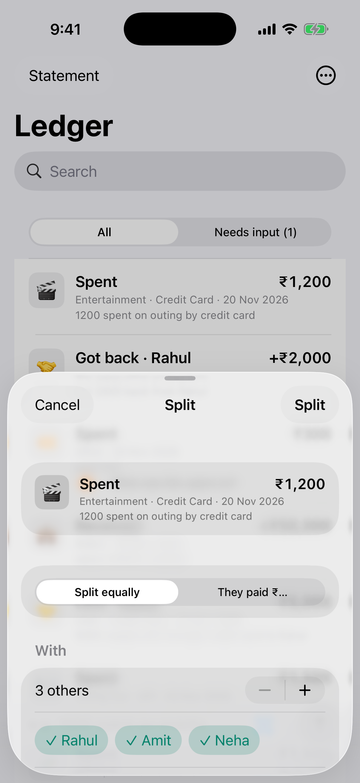
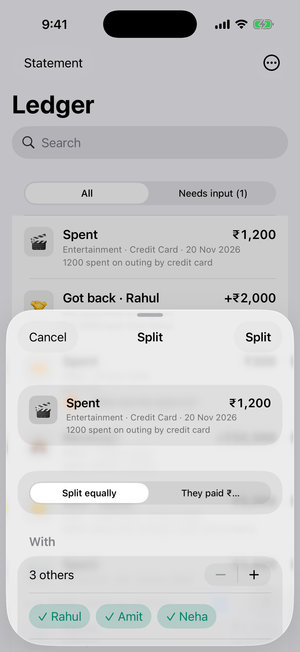
README: hero screenshot, features with their own screenshots, license note

diff --git a/README.md b/README.md
@@ -3,65 +3,69 @@
 <h1 align="center">Simplest Ledger</h1>
 
 <p align="center"><b>A private expense tracker for iPhone. Type it like a message.</b><br>
-No account. No internet. No ads. Everything stays on your phone.</p>
+No account · No internet · No ads · Everything stays on your phone</p>
 
-<p align="center">
-<img src="docs/screenshots/list.png" width="200" alt="Expense list">
-<img src="docs/screenshots/split.png" width="200" alt="Split a bill">
-<img src="docs/screenshots/trip.png" width="200" alt="Trip mode">
-<img src="docs/screenshots/statement.png" width="200" alt="Monthly statement">
-</p>
+<p align="center"><img src="docs/screenshots/list.png" width="300" alt="Simplest Ledger expense list"></p>
 
-## Just type
+<p align="center"><a href="../../releases/latest"><b>⬇ Download the app (free)</b></a></p>
 
-```
-1500 snacks via UPI
-lent 2000 to Rahul
-split the dinner with 3 people
-going on goa trip
-```
+---
 
-Amount, category, payment method and person are filled in for you. Anything unclear goes to **Needs input**, where you answer with a tap.
+<table>
+<tr>
+<td width="300"><img src="docs/screenshots/typing.png" width="280" alt="Typing an expense"></td>
+<td><h3>✍ Just type</h3>
+<code>dinner 850 with friends via UPI</code><br>
+Amount, category and payment method are filled in for you. English, Hindi or Hinglish.</td>
+</tr>
+<tr>
+<td><img src="docs/screenshots/sms-entry.png" width="280" alt="Expense added from a bank SMS"></td>
+<td><h3>📩 Bank SMS, added for you</h3>
+A UPI or card debit arrives and it's in your ledger, tagged <b>SMS</b>. OTPs, offers and failed payments are skipped. One-time setup inside the app.</td>
+</tr>
+<tr>
+<td><img src="docs/screenshots/split.png" width="280" alt="Split confirmation"><br><img src="docs/screenshots/after-split.png" width="280" alt="After the split"></td>
+<td><h3>👥 Edit old entries by typing</h3>
+<code>split the outing with Rahul, Amit and Neha</code><br>
+Finds the ₹1,200 outing, asks once, then it becomes your ₹300 share and each friend owes you ₹300.</td>
+</tr>
+<tr>
+<td><img src="docs/screenshots/edit.png" width="280" alt="Fix an entry by tapping"></td>
+<td><h3>❓ Unclear? Just tap</h3>
+Anything the app isn't sure about goes to <b>Needs input</b>. Answer with one tap on an icon.</td>
+</tr>
+<tr>
+<td><img src="docs/screenshots/trip.png" width="280" alt="Trip mode"></td>
+<td><h3>🧳 Trips</h3>
+<code>going on goa trip</code>: everything after is grouped, with a running total.</td>
+</tr>
+<tr>
+<td><img src="docs/screenshots/statement.png" width="280" alt="Monthly statement"></td>
+<td><h3>📊 Monthly statement</h3>
+Plain text: by category, by payment method, who owes whom. Copy or share.</td>
+</tr>
+<tr>
+<td><img src="docs/screenshots/dark.png" width="280" alt="Dark mode"></td>
+<td><h3>🌗 Also</h3>
+🧾 Scan receipts and UPI screenshots · 🤝 Lend and borrow · 🔍 Search · ⬇ CSV backup to iCloud or Google Drive · Dark mode</td>
+</tr>
+</table>
 
-## Features
+## 🔒 Private by design
 
-- 🧾 **Scan receipts** and UPI screenshots
-- 📩 **Bank SMS**: debits and credits added automatically (one-time Shortcuts setup, in the app)
-- 👥 **Split bills**: "he paid 700", "split with 3 people"; tracks who owes you
-- 🤝 **Lend and borrow**, with running balances
-- 🧳 **Trips**: group a trip's spending, see the total
-- 📊 **Monthly statement** in plain text: by category, by payment method, who owes whom
-- 🗂 20+ categories with icons; Dining Out, Food Delivery, Groceries, Utilities, Online Shopping…
-- 🌗 Dark mode, Liquid Glass design, Hindi and Hinglish input with English output
-- ⬇ CSV export/import, auto-backup to an iCloud Drive or Google Drive folder you pick
+- Everything is stored **on your iPhone**. No servers, no cloud database.
+- **No account, no sign-up, no tracking, no ads.** The app never connects to the internet.
+- Smart parsing runs **on the device** (Apple Intelligence on iPhone 15 Pro+, or a built-in offline parser).
+- Receipts are read on the phone and never saved. Backups go only to a folder you pick.
 
-## Private and secure by design
-
-- **On-device only.** Your entries live in the app on your iPhone. No server, no cloud database.
-- **No account, no sign-up, no tracking.** No analytics, no ads, no internet access in the app.
-- **Smart parsing runs locally** with Apple Intelligence (iPhone 15 Pro or newer); otherwise a built-in offline parser.
-- **Receipts are read on the phone** and not stored. Backups go only to a folder you choose.
-- **Public code.** Read every line of it right here.
-
-## Install (free, ~5 min)
+## 📲 Install (free)
 
 1. Download **SimplestLedger.ipa** from [Releases](../../releases/latest).
-2. Install it with [Sideloadly](https://sideloadly.io) (Windows/Mac) and a free Apple ID.
-3. On the iPhone: Settings → General → VPN & Device Management → **Trust**. Turn on **Developer Mode** if asked.
+2. Install with [Sideloadly](https://sideloadly.io) and a free Apple ID.
+3. iPhone: Settings → General → VPN & Device Management → **Trust**.
 
-Free Apple IDs re-sign every 7 days: repeat step 2 and your data stays.
+Re-install every 7 days (free Apple ID limit). Your data stays. Requires iOS 26.
 
-<details>
-<summary>More screenshots</summary>
-<p>
-<img src="docs/screenshots/edit.png" width="200" alt="Edit by tapping">
-<img src="docs/screenshots/bank-sms.png" width="200" alt="Bank SMS setup">
-<img src="docs/screenshots/dark.png" width="200" alt="Dark mode">
-</p>
-</details>
+---
 
-<details>
-<summary>Build from source</summary>
-
-SwiftUI, iOS 26, no third-party dependencies. Every push builds an unsigned IPA on GitHub Actions (`.github/workflows/build.yml`) using [XcodeGen](https://github.com/yonaskolb/XcodeGen). Parsing logic lives in `LedgerCore` with tests: `swift test --package-path LedgerCore`.
-</details>
+<sub>Free for personal, non-commercial use under the [PolyForm Noncommercial License](LICENSE.md). Ideas and pull requests welcome: see [CONTRIBUTING](CONTRIBUTING.md).</sub>
